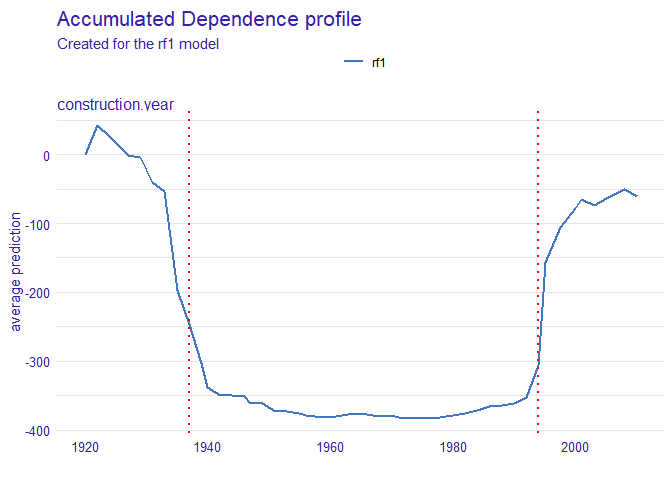
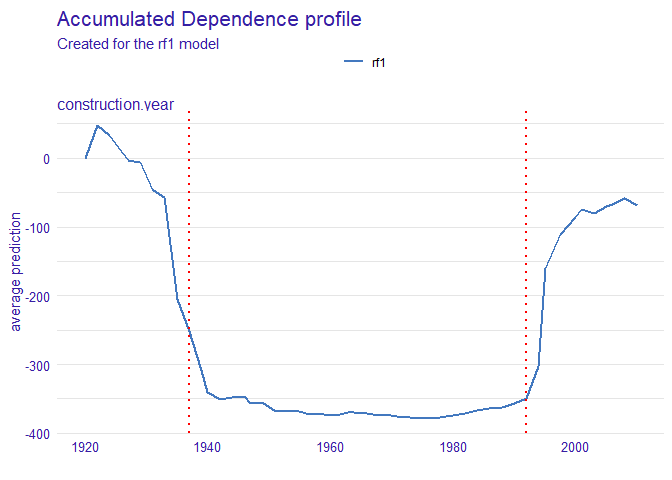
Update readme

diff --git a/README.md b/README.md
@@ -1,6 +1,7 @@
 
 # Surrogate Assisted Feature Extraction in R <img src="man/figures/logo.png" align="right" width="150"/>
 
+[![CRAN\_Status\_Badge](http://www.r-pkg.org/badges/version/rSAFE)](https://ccitran.r-project.org/package=rSAFE)
 [![Build
 Status](https://travis-ci.org/ModelOriented/rSAFE.svg?branch=master)](https://travis-ci.org/ModelOriented/rSAFE)
 [![Coverage
@@ -91,8 +92,8 @@ Now, let’s print summary for the new object we have just created.
 print(safe_extractor)
 #> Variable 'construction.year' - selected intervals:
 #>  (-Inf, 1937]
-#>      (1937, 1994]
-#>      (1994, Inf)
+#>      (1937, 1992]
+#>      (1992, Inf)
 #> Variable 'surface' - selected intervals:
 #>  (-Inf, 47]
 #>      (47, 101]
@@ -140,12 +141,12 @@ data1 <- safely_transform_data(safe_extractor, apartmentsTest[3001:6000,], verbo
 
 | district    | m2.price | construction.year | surface | floor | no.rooms | construction.year\_new | surface\_new | floor\_new | no.rooms\_new | district\_new                                |
 | :---------- | -------: | ----------------: | ------: | ----: | -------: | :--------------------- | :----------- | :--------- | :------------ | :------------------------------------------- |
-| Bielany     |     3542 |              1979 |      21 |     6 |        1 | (1937, 1994\]          | (-Inf, 47\]  | (5, Inf)   | (-Inf, 3\]    | Bemowo\_Bielany\_Praga\_Ursus\_Ursynow\_Wola |
-| Srodmiescie |     5631 |              1997 |     107 |     2 |        4 | (1994, Inf)            | (101, Inf)   | (-Inf, 5\] | (3, Inf)      | Srodmiescie                                  |
-| Bielany     |     2989 |              1994 |      41 |     9 |        2 | (1937, 1994\]          | (-Inf, 47\]  | (5, Inf)   | (-Inf, 3\]    | Bemowo\_Bielany\_Praga\_Ursus\_Ursynow\_Wola |
-| Ursynow     |     3822 |              1968 |      28 |     2 |        2 | (1937, 1994\]          | (-Inf, 47\]  | (-Inf, 5\] | (-Inf, 3\]    | Bemowo\_Bielany\_Praga\_Ursus\_Ursynow\_Wola |
-| Ursynow     |     2337 |              1971 |     146 |     3 |        6 | (1937, 1994\]          | (101, Inf)   | (-Inf, 5\] | (3, Inf)      | Bemowo\_Bielany\_Praga\_Ursus\_Ursynow\_Wola |
-| Ochota      |     3381 |              1956 |      97 |     8 |        3 | (1937, 1994\]          | (47, 101\]   | (5, Inf)   | (-Inf, 3\]    | Mokotow\_Ochota\_Zoliborz                    |
+| Bielany     |     3542 |              1979 |      21 |     6 |        1 | (1937, 1992\]          | (-Inf, 47\]  | (5, Inf)   | (-Inf, 3\]    | Bemowo\_Bielany\_Praga\_Ursus\_Ursynow\_Wola |
+| Srodmiescie |     5631 |              1997 |     107 |     2 |        4 | (1992, Inf)            | (101, Inf)   | (-Inf, 5\] | (3, Inf)      | Srodmiescie                                  |
+| Bielany     |     2989 |              1994 |      41 |     9 |        2 | (1992, Inf)            | (-Inf, 47\]  | (5, Inf)   | (-Inf, 3\]    | Bemowo\_Bielany\_Praga\_Ursus\_Ursynow\_Wola |
+| Ursynow     |     3822 |              1968 |      28 |     2 |        2 | (1937, 1992\]          | (-Inf, 47\]  | (-Inf, 5\] | (-Inf, 3\]    | Bemowo\_Bielany\_Praga\_Ursus\_Ursynow\_Wola |
+| Ursynow     |     2337 |              1971 |     146 |     3 |        6 | (1937, 1992\]          | (101, Inf)   | (-Inf, 5\] | (3, Inf)      | Bemowo\_Bielany\_Praga\_Ursus\_Ursynow\_Wola |
+| Ochota      |     3381 |              1956 |      97 |     8 |        3 | (1937, 1992\]          | (47, 101\]   | (5, Inf)   | (-Inf, 3\]    | Mokotow\_Ochota\_Zoliborz                    |
 
 We can also perform feature selection if we wish. For each original
 feature it keeps exactly one of their forms - original one or
@@ -166,12 +167,12 @@ Here are the first few rows for our data after feature selection:
 
 | m2.price | surface | floor | no.rooms | construction.year\_new | district\_new                                |
 | -------: | ------: | ----: | -------: | :--------------------- | :------------------------------------------- |
-|     3542 |      21 |     6 |        1 | (1937, 1994\]          | Bemowo\_Bielany\_Praga\_Ursus\_Ursynow\_Wola |
-|     5631 |     107 |     2 |        4 | (1994, Inf)            | Srodmiescie                                  |
-|     2989 |      41 |     9 |        2 | (1937, 1994\]          | Bemowo\_Bielany\_Praga\_Ursus\_Ursynow\_Wola |
-|     3822 |      28 |     2 |        2 | (1937, 1994\]          | Bemowo\_Bielany\_Praga\_Ursus\_Ursynow\_Wola |
-|     2337 |     146 |     3 |        6 | (1937, 1994\]          | Bemowo\_Bielany\_Praga\_Ursus\_Ursynow\_Wola |
-|     3381 |      97 |     8 |        3 | (1937, 1994\]          | Mokotow\_Ochota\_Zoliborz                    |
+|     3542 |      21 |     6 |        1 | (1937, 1992\]          | Bemowo\_Bielany\_Praga\_Ursus\_Ursynow\_Wola |
+|     5631 |     107 |     2 |        4 | (1992, Inf)            | Srodmiescie                                  |
+|     2989 |      41 |     9 |        2 | (1992, Inf)            | Bemowo\_Bielany\_Praga\_Ursus\_Ursynow\_Wola |
+|     3822 |      28 |     2 |        2 | (1937, 1992\]          | Bemowo\_Bielany\_Praga\_Ursus\_Ursynow\_Wola |
+|     2337 |     146 |     3 |        6 | (1937, 1992\]          | Bemowo\_Bielany\_Praga\_Ursus\_Ursynow\_Wola |
+|     3381 |      97 |     8 |        3 | (1937, 1992\]          | Mokotow\_Ochota\_Zoliborz                    |
 
 Now, we perform transformations on another data that will be used later
 in explainers:
